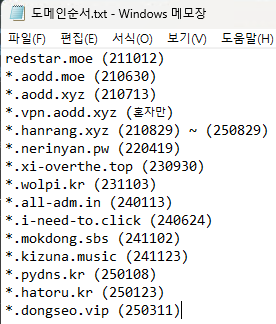
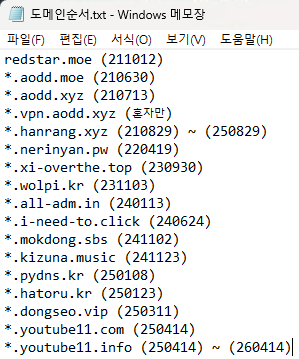
youtube11.com, youtube11.info 도메인 추가됨

diff --git a/homework2-2.html b/homework2-2.html
@@ -102,6 +102,16 @@
             <td>250311</td>
             <td><a target="_blank" href="https://dynadot.com">dynadot.com</td>
           </tr>
+          <tr>
+            <td><a target="_blank" href="https://youtube11.com">youtube11.com</a></td>
+            <td>(250414)</td>
+            <td><a target="_blank" href="https://dynadot.com">dynadot.com</td>
+          </tr>
+          <tr>
+            <td><a target="_blank" href="https://youtube11.info">youtube11.info</a></td>
+            <td>(250414) ~ (260414)</td>
+            <td><a target="_blank" href="https://dynadot.com">dynadot.com</td>
+          </tr>
       </table>
 </body>
 </html>

diff --git a/homework2-3.html b/homework2-3.html
@@ -30,6 +30,8 @@
                 <a target="_blank" href=https://kizuna.music>kizuna.music</a><br>
                 <a target="_blank" href=https://hatoru.kr>hatoru.kr</a><br>
                 <a target="_blank" href=https://dongseo.vip>dongseo.vip</a><br>
+                <a target="_blank" href=https://youtube11.com>youtube11.com</a><br>
+                <a target="_blank" href=https://youtube11.info>youtube11.info</a><br>
             </p>
         </div>
 

diff --git a/README.md b/README.md
@@ -32,3 +32,5 @@
 * <a target="_blank" href=https://pydns.kr>pydns.kr</a> (250823)
 * <a target="_blank" href=https://hatoru.kr>hatoru.kr</a> (250123)
 * <a target="_blank" href=https://dongseo.vip>dongseo.vip</a> (250311)
+* <a target="_blank" href=https://youtube11.com>youtube11.com</a> (250414)
+* <a target="_blank" href=https://youtube11.info>youtube11.info</a> (250414) ~ (260414)
